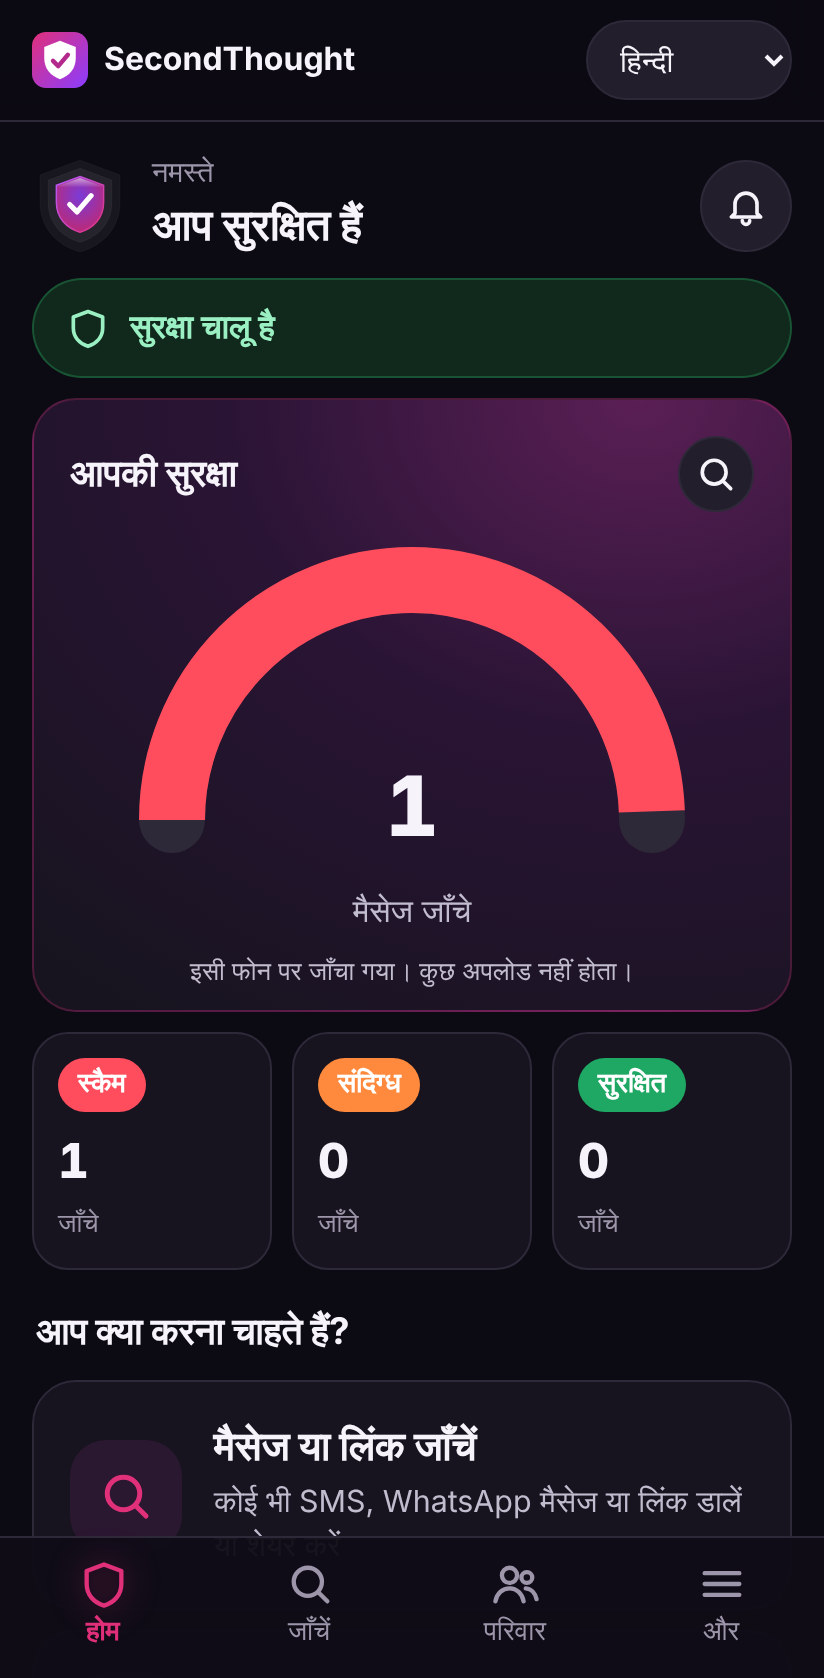
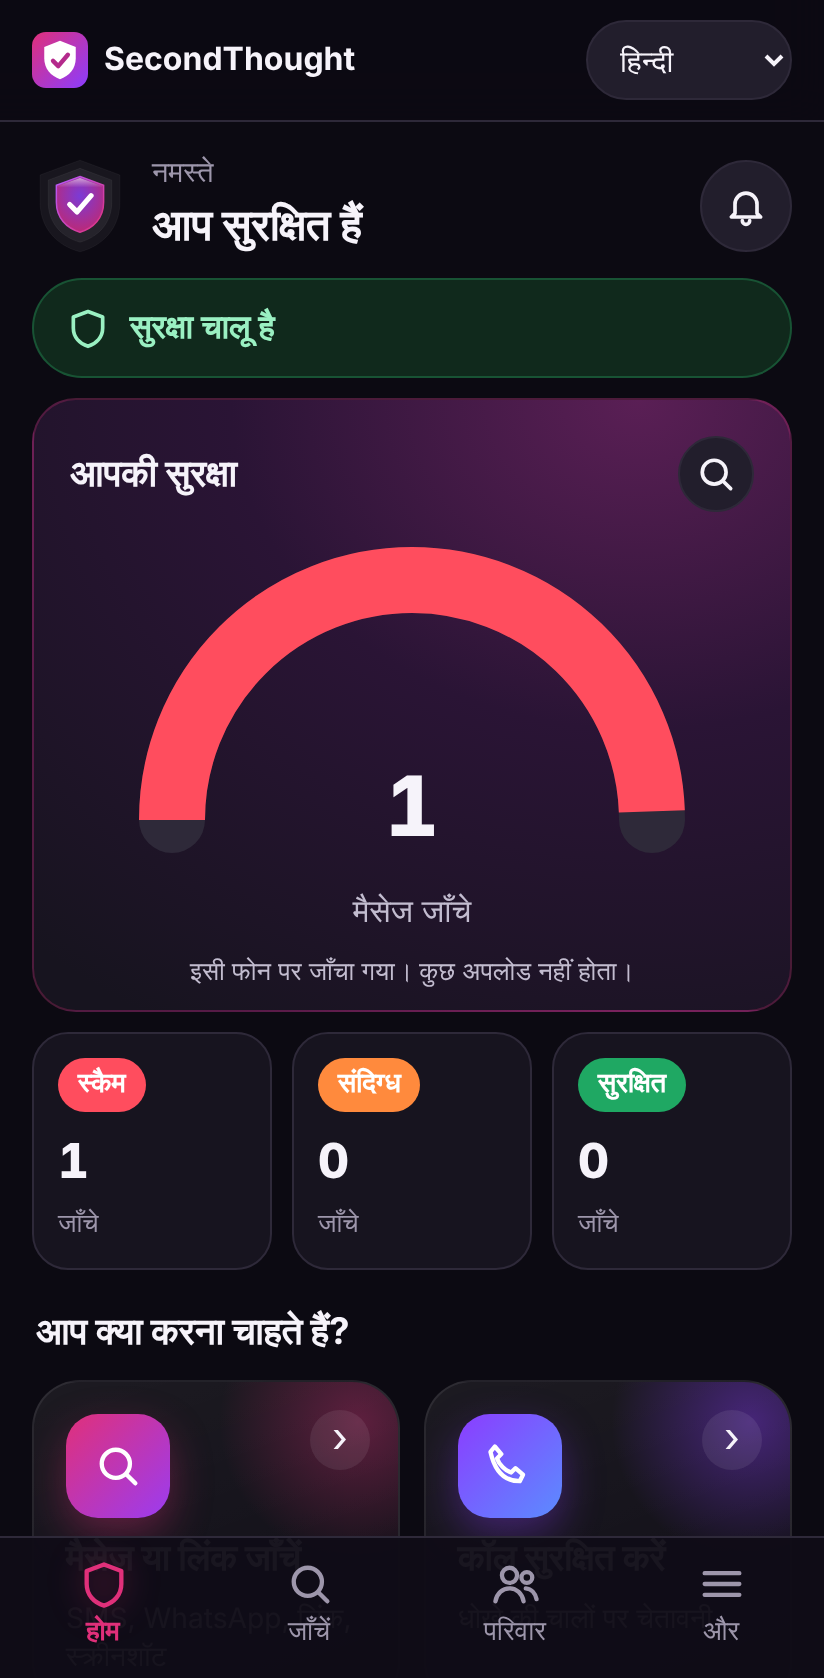
Stylish scam network and modern action tiles
- Scam network: glowing gradient nodes (reports and scammer details), curved gradient links,
  soft halos around each campaign (highlighted when selected), dotted dark canvas, glass tooltip,
  gradient stat tiles and campaign cards with accent bar and report count
- Home: two-column quick-action tiles with gradient icon badges; action cards everywhere get a
  glass look, gradient icon badge and arrow; Help card in a red gradient

Changed region(s): [[0.2427, 0.8057, 0.9709, 0.9297], [0.0607, 0.8367, 0.2124, 0.9297]]

diff --git a/src/pages/Graph.jsx b/src/pages/Graph.jsx
@@ -35,7 +35,7 @@ export default function Graph() {
         <button className="btn" onClick={load}>Refresh</button>
       </div>
       {data.stats.demo_data ? <div className="banner warn"><Icon name="info" /><div>Includes <strong>synthetic demo data</strong> so the network isn't empty before real reports exist. Demo identifiers are fictional (demo- prefixes, example.com sites, impossible numbers).</div></div> : null}
-      <div className="tiles">
+      <div className="tiles net">
         <div className="tile"><div className="value">{data.stats.reports}</div><div className="label">Reports</div></div>
         <div className="tile"><div className="value">{data.stats.identifiers}</div><div className="label">Scammer identifiers</div></div>
         <div className="tile"><div className="value">{data.stats.campaigns}</div><div className="label">Linked campaigns</div></div>
@@ -44,8 +44,8 @@ export default function Graph() {
         <div>
           <div className="row" style={{ justifyContent: "space-between", marginBottom: 8 }}>
             <div className="legend">
-              <span><i style={{ background: "var(--series-1)", borderRadius: "50%" }} />Report</span>
-              <span><i style={{ background: "var(--series-2)", borderRadius: 3 }} />Identifier (UPI, account, phone, link)</span>
+              <span><i className="lg-report" />Report</span>
+              <span><i className="lg-ident" />Scammer detail (UPI, account, phone, link)</span>
             </div>
             <input className="input" style={{ maxWidth: 240 }} value={query} onChange={(e) => setQuery(e.target.value)} placeholder="Find a UPI ID, number, link…" aria-label="Search identifiers" />
           </div>
@@ -55,7 +55,7 @@ export default function Graph() {
         <div>
           <h2>Campaigns</h2>
           {multi.map((c) => (
-            <div key={c.id} className={`card campaign ${active === c.id ? "selected" : ""}`} role="button" tabIndex={0}
+            <div key={c.id} className={`card campaign ${active === c.id ? "selected" : ""}`} data-n={c.reports} role="button" tabIndex={0}
               onClick={() => { setQuery(""); setSelected(active === c.id ? null : c.id); }}
               onKeyDown={(e) => { if (e.key === "Enter" || e.key === " ") { e.preventDefault(); setSelected(active === c.id ? null : c.id); } }}>
               <strong>{c.scam_types[0] || "Unclassified"}</strong>
@@ -118,28 +118,60 @@ function ForceGraph({ data, active, onSelect }) {
   }, [links]);
   const inActive = (n) => !active || (n.type === "report" ? n.campaign === active : camOfIdent.get(n.id) === active);
 
+  // campaign halos: a soft glow around every operation with more than one report
+  const halos = useMemo(() => {
+    const by = new Map();
+    nodes.forEach((n) => {
+      const c = n.type === "report" ? n.campaign : camOfIdent.get(n.id);
+      if (!c) return;
+      if (!by.has(c)) by.set(c, []);
+      by.get(c).push(n);
+    });
+    return Array.from(by.entries()).filter(([, ns]) => ns.filter((n) => n.type === "report").length > 1).map(([id, ns]) => {
+      const cx = ns.reduce((a, n) => a + n.x, 0) / ns.length, cy = ns.reduce((a, n) => a + n.y, 0) / ns.length;
+      const r = Math.max(...ns.map((n) => Math.hypot(n.x - cx, n.y - cy))) + 22;
+      return { id, cx, cy, r };
+    });
+  }, [nodes, camOfIdent]);
+  const curve = (l) => {
+    const mx = (l.source.x + l.target.x) / 2, my = (l.source.y + l.target.y) / 2;
+    const dx = l.target.x - l.source.x, dy = l.target.y - l.source.y;
+    return `M${l.source.x},${l.source.y} Q${mx - dy * 0.18},${my + dx * 0.18} ${l.target.x},${l.target.y}`;
+  };
+
   return (
     <div className="graph-box" ref={box}>
       <svg role="img" aria-label={`Network of ${data.stats.reports} reports and ${data.stats.identifiers} identifiers in ${data.stats.campaigns} linked campaigns`}>
-        <g>
+        <defs>
+          <radialGradient id="g-report" cx="35%" cy="30%" r="75%"><stop offset="0" stopColor="#c9c2ff" /><stop offset="0.45" stopColor="#8f7bff" /><stop offset="1" stopColor="#5a3fe0" /></radialGradient>
+          <radialGradient id="g-ident" cx="35%" cy="30%" r="75%"><stop offset="0" stopColor="#ffc0dc" /><stop offset="0.45" stopColor="#ff4d9a" /><stop offset="1" stopColor="#c0186a" /></radialGradient>
+          <radialGradient id="g-halo"><stop offset="0" stopColor="#9b3cf0" stopOpacity="0.22" /><stop offset="0.7" stopColor="#e0307a" stopOpacity="0.08" /><stop offset="1" stopColor="#e0307a" stopOpacity="0" /></radialGradient>
+          <radialGradient id="g-halo-on"><stop offset="0" stopColor="#ff4d9a" stopOpacity="0.38" /><stop offset="0.7" stopColor="#9b3cf0" stopOpacity="0.16" /><stop offset="1" stopColor="#9b3cf0" stopOpacity="0" /></radialGradient>
+          <linearGradient id="g-link" gradientUnits="userSpaceOnUse" x1="0" y1="0" x2={size.w} y2={size.h}><stop offset="0" stopColor="#8f7bff" /><stop offset="1" stopColor="#ff4d9a" /></linearGradient>
+          <filter id="glow" x="-80%" y="-80%" width="260%" height="260%"><feGaussianBlur stdDeviation="3.5" result="b" /><feMerge><feMergeNode in="b" /><feMergeNode in="SourceGraphic" /></feMerge></filter>
+        </defs>
+        <g>{halos.map((h) => (
+          <circle key={h.id} cx={h.cx} cy={h.cy} r={h.r} fill={active === h.id ? "url(#g-halo-on)" : "url(#g-halo)"}
+            stroke={active === h.id ? "#ff4d9a" : "#ffffff"} strokeOpacity={active === h.id ? 0.5 : 0.06} strokeDasharray="3 6"
+            style={{ cursor: "pointer" }} onClick={() => onSelect(h.id)} />
+        ))}</g>
+        <g fill="none">
           {links.map((l, i) => (
-            <line key={i} x1={l.source.x} y1={l.source.y} x2={l.target.x} y2={l.target.y}
-              stroke="var(--text-3)" strokeOpacity={inActive(l.source) ? 0.45 : 0.08} strokeWidth="1.5" />
+            <path key={i} d={curve(l)} stroke="url(#g-link)" strokeOpacity={inActive(l.source) ? (active ? 0.9 : 0.5) : 0.06} strokeWidth={active && inActive(l.source) ? 2.2 : 1.4} strokeLinecap="round" />
           ))}
         </g>
         <g>
           {nodes.map((n) => {
             const on = inActive(n);
-            const fill = on ? (n.type === "report" ? "var(--series-1)" : "var(--series-2)") : "var(--muted-node)";
             const common = {
-              fill, stroke: "var(--surface)", strokeWidth: 2, style: { cursor: "pointer" },
+              opacity: on ? 1 : 0.18, filter: on ? "url(#glow)" : undefined, style: { cursor: "pointer" },
               onMouseEnter: () => setTip(n), onMouseLeave: () => setTip(null),
-              onClick: () => onSelect(n.type === "report" ? n.campaign : camOfIdent.get(n.id)),
+              onClick: () => { setTip(n); onSelect(n.type === "report" ? n.campaign : camOfIdent.get(n.id)); },
             };
-            const r = n.type === "report" ? 6 : 5 + Math.min(4, n.reporters || 1);
-            return n.type === "report"
-              ? <circle key={n.id} {...common} cx={n.x} cy={n.y} r={r} />
-              : <rect key={n.id} {...common} x={n.x - r} y={n.y - r} width={r * 2} height={r * 2} rx={3} />;
+            if (n.type === "report") return <circle key={n.id} {...common} cx={n.x} cy={n.y} r={6.5} fill="url(#g-report)" stroke="#0c0a12" strokeWidth="1.5" />;
+            const r = 6 + Math.min(5, n.reporters || 1);
+            return <rect key={n.id} {...common} x={n.x - r} y={n.y - r} width={r * 2} height={r * 2} rx={r * 0.45} fill="url(#g-ident)" stroke="#0c0a12" strokeWidth="1.5"
+              transform={`rotate(45 ${n.x} ${n.y})`} />;
           })}
         </g>
       </svg>

diff --git a/src/styles.css b/src/styles.css
@@ -416,3 +416,49 @@ a { color: #ff7fb2; }
 .resultcard .warnicon { width: 40px; height: 40px; flex: none; }
 .resultcard ul { margin: 10px 0 0; padding-left: 20px; }
 .resultcard li { margin-bottom: 8px; }
+
+/* ---------------------------------------------------------------- scam network, styled */
+.graph-box { position: relative; height: 480px; border-radius: var(--radius); overflow: hidden; border: 1px solid var(--border);
+  background: radial-gradient(70% 60% at 50% 40%, rgba(155, 60, 240, 0.16), transparent 70%),
+              radial-gradient(circle at 1px 1px, rgba(255, 255, 255, 0.06) 1px, transparent 0) 0 0 / 18px 18px, #0f0c17; }
+.graph-box svg { width: 100%; height: 100%; display: block; }
+.tooltip { background: rgba(28, 23, 38, 0.92); backdrop-filter: blur(8px); border: 1px solid rgba(255, 77, 154, 0.35); border-radius: 14px; color: var(--text); box-shadow: 0 10px 30px rgba(0,0,0,.5); padding: 8px 12px; font-size: 0.85rem; position: absolute; pointer-events: none; max-width: 240px; }
+.legend { display: flex; gap: 14px; flex-wrap: wrap; font-size: 0.85rem; color: var(--text-2); }
+.legend i { display: inline-block; width: 12px; height: 12px; margin-right: 6px; vertical-align: -1px; }
+.legend .lg-report { border-radius: 50%; background: radial-gradient(circle at 35% 30%, #c9c2ff, #5a3fe0); box-shadow: 0 0 8px #8f7bff; }
+.legend .lg-ident { border-radius: 3px; transform: rotate(45deg) scale(.85); background: radial-gradient(circle at 35% 30%, #ffc0dc, #c0186a); box-shadow: 0 0 8px #ff4d9a; }
+.tiles.net { display: grid; grid-template-columns: repeat(3, 1fr); gap: 10px; margin-bottom: 14px; }
+.tiles.net .tile { background: var(--grad-card); border: 1px solid rgba(224, 48, 122, 0.25); border-radius: 18px; padding: 14px; }
+.tiles.net .tile .value { background: linear-gradient(135deg, #fff, #ffb3d4); -webkit-background-clip: text; background-clip: text; color: transparent; }
+.card.campaign { position: relative; padding-left: 20px; cursor: pointer; overflow: hidden; }
+.card.campaign::before { content: ""; position: absolute; left: 0; top: 0; bottom: 0; width: 5px; background: var(--grad); }
+.card.campaign::after { content: attr(data-n); position: absolute; right: 14px; top: 14px; min-width: 30px; padding: 2px 8px; border-radius: 999px; text-align: center; background: rgba(224, 48, 122, 0.18); color: #ff9cc6; font-weight: 700; font-size: 0.85rem; }
+.card.campaign.selected { border-color: rgba(255, 77, 154, 0.6); background: radial-gradient(120% 140% at 0% 0%, rgba(224, 48, 122, 0.16), var(--surface) 60%); }
+
+/* ---------------------------------------------------------------- modern action tiles */
+.bigaction { position: relative; background: linear-gradient(150deg, rgba(255, 255, 255, 0.06), rgba(255, 255, 255, 0.015)); border: 1px solid rgba(255, 255, 255, 0.08); padding: 18px 54px 18px 16px; min-height: 88px; }
+.bigaction::after { content: "›"; position: absolute; right: 14px; top: 50%; transform: translateY(-50%); width: 32px; height: 32px; border-radius: 50%; display: grid; place-items: center; background: rgba(255, 255, 255, 0.07); color: var(--text-2); font-size: 1.5rem; line-height: 1; }
+.bigaction .ico { width: 54px; height: 54px; border-radius: 16px; background: var(--grad); color: #fff; box-shadow: 0 8px 20px rgba(224, 48, 122, 0.35); }
+.bigaction strong { font-size: 1.15rem; }
+.bigaction small { font-size: 0.92rem; }
+.bigaction:active { transform: scale(0.985); }
+.bigaction.danger { background: linear-gradient(135deg, #ff4d5e 0%, #e0307a 100%); border: 0; color: #fff; box-shadow: 0 12px 28px rgba(255, 77, 94, 0.35); }
+.bigaction.danger small { color: rgba(255, 255, 255, 0.85); }
+.bigaction.danger .ico { background: rgba(255, 255, 255, 0.2); box-shadow: none; }
+.bigaction.danger::after { background: rgba(255, 255, 255, 0.2); color: #fff; }
+.quickgrid { display: grid; grid-template-columns: 1fr 1fr; gap: 12px; }
+.quick { position: relative; display: flex; flex-direction: column; align-items: flex-start; gap: 10px; text-align: left; padding: 16px; min-height: 160px; border-radius: 24px; cursor: pointer; font: inherit; color: var(--text);
+  border: 1px solid rgba(255, 255, 255, 0.08); background: linear-gradient(160deg, rgba(255, 255, 255, 0.07), rgba(255, 255, 255, 0.015)); overflow: hidden; }
+.quick::before { content: ""; position: absolute; width: 140px; height: 140px; right: -50px; top: -50px; border-radius: 50%; background: radial-gradient(circle, rgba(224, 48, 122, 0.35), transparent 70%); }
+.quick.alt::before { background: radial-gradient(circle, rgba(139, 61, 255, 0.4), transparent 70%); }
+.quick .qicon { width: 52px; height: 52px; border-radius: 16px; display: grid; place-items: center; background: var(--grad); color: #fff; box-shadow: 0 8px 20px rgba(224, 48, 122, 0.35); }
+.quick.alt .qicon { background: linear-gradient(135deg, #8b3dff, #5b8cff); box-shadow: 0 8px 20px rgba(139, 61, 255, 0.35); }
+.quick .qicon svg { width: 26px; height: 26px; }
+.quick strong { font-size: 1.12rem; line-height: 1.25; }
+.quick small { color: var(--text-2); font-size: 0.88rem; line-height: 1.3; }
+.quick .go { position: absolute; right: 12px; bottom: 12px; width: 30px; height: 30px; border-radius: 50%; display: grid; place-items: center; background: rgba(255, 255, 255, 0.08); color: var(--text); font-size: 1.3rem; }
+.quick:active { transform: scale(0.98); }
+.card.campaign { padding-right: 60px; }
+.quick { padding-bottom: 16px; }
+.quick .go { top: 14px; bottom: auto; right: 14px; }
+.quick strong { padding-right: 4px; }

diff --git a/src/i18n_app.js b/src/i18n_app.js
@@ -1,6 +1,7 @@
 // Text for the Android app's own screens (easy home, unknown caller, setup, more).
 export const APP = {
   en: {
+    quick_check_sub: "SMS, WhatsApp, links, screenshots", quick_protect_sub: "Warns you about scam tricks",
     welcome_title: "Stop scams before money moves", welcome_sub: "SecondThought spots scam tricks in messages and calls, warns you in plain words and alerts your family.",
     welcome_start: "Get started", home_welcome: "Welcome", prot_active: "Protection is active", prot_off: "Call protection is off",
     sum_title: "Your safety", sum_checked: "messages checked", sum_on_phone: "Checked on this phone. Nothing is uploaded.",
@@ -61,6 +62,7 @@ export const APP = {
     family_title: "Family", family_watch: "I want alerts about someone else", family_watch_sub: "Enter the code from their phone.",
   },
   hi: {
+    quick_check_sub: "SMS, WhatsApp, लिंक, स्क्रीनशॉट", quick_protect_sub: "धोखे की चालों पर चेतावनी",
     welcome_title: "पैसे जाने से पहले स्कैम रोकें", welcome_sub: "SecondThought मैसेज और कॉल में धोखे की चालें पहचानता है, आसान शब्दों में चेतावनी देता है और परिवार को बताता है।",
     welcome_start: "शुरू करें", home_welcome: "नमस्ते", prot_active: "सुरक्षा चालू है", prot_off: "कॉल सुरक्षा बंद है",
     sum_title: "आपकी सुरक्षा", sum_checked: "मैसेज जाँचे", sum_on_phone: "इसी फोन पर जाँचा गया। कुछ अपलोड नहीं होता।",
@@ -120,6 +122,7 @@ export const APP = {
     family_title: "परिवार", family_watch: "मुझे किसी और के अलर्ट चाहिए", family_watch_sub: "उनके फोन पर दिखा कोड डालें।",
   },
   es: {
+    quick_check_sub: "SMS, WhatsApp, enlaces, capturas", quick_protect_sub: "Te avisa de trucos de estafa",
     welcome_title: "Frena las estafas antes de que se mueva el dinero", welcome_sub: "SecondThought detecta trucos de estafa en mensajes y llamadas, te avisa con palabras claras y alerta a tu familia.",
     welcome_start: "Empezar", home_welcome: "Bienvenido", prot_active: "La protección está activa", prot_off: "La protección de llamadas está desactivada",
     sum_title: "Tu seguridad", sum_checked: "mensajes comprobados", sum_on_phone: "Comprobado en este teléfono. No se sube nada.",

diff --git a/src/pages/Home.jsx b/src/pages/Home.jsx
@@ -83,14 +83,17 @@ export default function Home({ go, online }) {
       </div>
 
       <div className="sectiontitle">{t("what_to_do")}</div>
-      <button className="bigaction" onClick={() => go("/check")}>
-        <span className="ico"><Icon name="search" /></span>
-        <span><strong>{t("home_check")}</strong><small>{t("home_check_sub")}</small></span>
-      </button>
-      <button className="bigaction" onClick={() => go("/protect")}>
-        <span className="ico"><Icon name="phone" /></span>
-        <span><strong>{t("home_protect")}</strong><small>{t("home_protect_sub")}</small></span>
-      </button>
+      <div className="quickgrid">
+        <button className="quick" onClick={() => go("/check")}>
+          <span className="qicon"><Icon name="search" /></span>
+          <strong>{t("home_check")}</strong><small>{t("quick_check_sub")}</small><span className="go" aria-hidden="true">›</span>
+        </button>
+        <button className="quick alt" onClick={() => go("/protect")}>
+          <span className="qicon"><Icon name="phone" /></span>
+          <strong>{t("home_protect")}</strong><small>{t("quick_protect_sub")}</small><span className="go" aria-hidden="true">›</span>
+        </button>
+      </div>
+
       <div className="card trap">
         <div className="row" style={{ alignItems: "flex-start", gap: 14 }}>
           <span className="trapico"><Icon name="bot" /></span>
